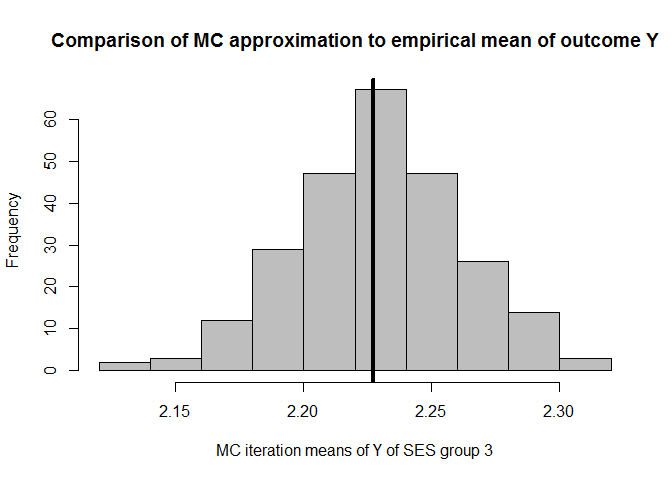
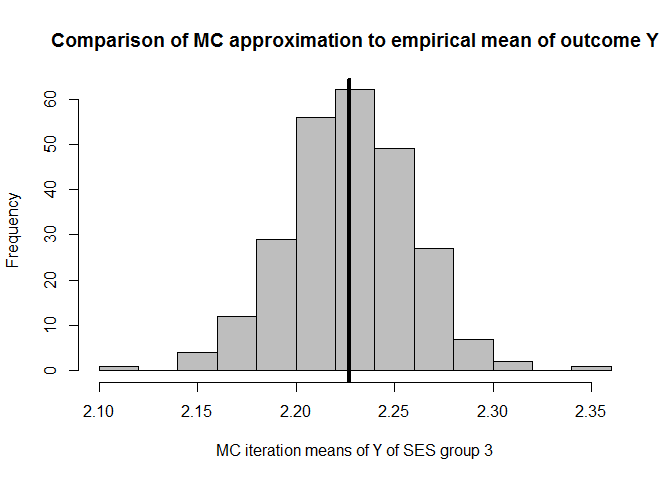
Update 1 of n based on CRAN comments received

diff --git a/README.md b/README.md
@@ -13,14 +13,13 @@ cfdecomp stands for ‘counterfactual decomposition’. This package
 provides functions to decompose differences in an outcome attributable
 to a mediating variable (or sets of mediating variables) between groups
 based on counterfactual (causal inference) theory. By using Monte Carlo
-Integration (simulations based on empirical estimates from multivariable
-models) we provide added flexibility compared to existing (analytical)
-approaches, at the cost of computational power or time. The added
-flexibility means that we can decompose difference between groups in any
-outcome or and with any mediator (any variable type and distribution).
-See the [Sudharsanan & Bijlsma Working
-Paper](https://www.demogr.mpg.de/papers/working/wp-2019-004.pdf) for
-more information.
+(MC) integration (simulations based on empirical estimates from
+multivariable models) we provide added flexibility compared to existing
+(analytical) approaches, at the cost of computational power or time. The
+added flexibility means that we can decompose difference between groups
+in any outcome or and with any mediator (any variable type and
+distribution). See Sudharsanan & Bijlsma (2019)
+<doi:10.4054/MPIDR-WP-2019-004> for more information.
 
 ## Installation
 
@@ -64,7 +63,7 @@ abline(v=mean(cfd.example.data$med.gauss[cfd.example.data$SES==1]),lwd=4)
 ``` r
 # approximation of the mean of M over the Monte Carlo iterations for SES group 1:
 mean(mean.results.1$out_nc_m[,1])
-#> [1] 8.161517
+#> [1] 8.163107
 # empirical mean of mediator M for SES group 1:
 mean(cfd.example.data$med.gauss[cfd.example.data$SES==1])
 #> [1] 8.163461
@@ -81,7 +80,7 @@ abline(v=mean(cfd.example.data$med.gauss[cfd.example.data$SES==2]),lwd=4)
 
 ``` r
 mean(mean.results.1$out_nc_m[,2]);mean(cfd.example.data$med.gauss[cfd.example.data$SES==2])
-#> [1] 7.181451
+#> [1] 7.1858
 #> [1] 7.186521
 # conclusion: also for group 2, approximation is good
 
@@ -96,7 +95,7 @@ abline(v=mean(cfd.example.data$med.gauss[cfd.example.data$SES==3]),lwd=4)
 
 ``` r
 mean(mean.results.1$out_nc_m[,3]);mean(cfd.example.data$med.gauss[cfd.example.data$SES==3])
-#> [1] 5.377285
+#> [1] 5.373602
 #> [1] 5.376548
 # conclusion: also for group 3, approximation of M is good
 
@@ -112,7 +111,7 @@ abline(v=mean(cfd.example.data$out.gauss[cfd.example.data$SES==1]),lwd=4)
 
 ``` r
 mean(mean.results.1$out_nc_y[,1]);mean(cfd.example.data$out.gauss[cfd.example.data$SES==1])
-#> [1] 4.142015
+#> [1] 4.144114
 #> [1] 4.145881
 # conclusion: on average, our distributions of means of Y centers on the empirical distribution of Y 
 
@@ -127,7 +126,7 @@ abline(v=mean(cfd.example.data$out.gauss[cfd.example.data$SES==2]),lwd=4)
 
 ``` r
 mean(mean.results.1$out_nc_y[,2]);mean(cfd.example.data$out.gauss[cfd.example.data$SES==2])
-#> [1] 3.282428
+#> [1] 3.284143
 #> [1] 3.284409
 # conclusion: also for group 2, approximation of Y is good
 
@@ -142,7 +141,7 @@ abline(v=mean(cfd.example.data$out.gauss[cfd.example.data$SES==3]),lwd=4)
 
 ``` r
 mean(mean.results.1$out_nc_y[,3]);mean(cfd.example.data$out.gauss[cfd.example.data$SES==3])
-#> [1] 2.22959
+#> [1] 2.227175
 #> [1] 2.227222
 # conclusion: also for group 3, approximation of Y is good
 
@@ -151,26 +150,26 @@ mean(mean.results.1$out_nc_y[,3]);mean(cfd.example.data$out.gauss[cfd.example.da
 # estimate the effect of the intervention and proportion mediated (decomposition)
 # the differences between SES groups 1 and 2 were first:
 mean(mean.results.1$out_nc_y[,2] - mean.results.1$out_nc_y[,1])
-#> [1] -0.8595873
+#> [1] -0.8599707
 # and after giving the gaussian mediator of SES group 2 the distribution of the one in group 1
 # the difference becomes:
 mean(mean.results.1$out_cf_y[,2] - mean.results.1$out_nc_y[,1])
-#> [1] -0.6520602
+#> [1] -0.6531454
 # so the proportion of the outcome Y that is due to differences between the two SES groups in the gaussian mediator is
 mean(1-(mean.results.1$out_cf_y[,2] - mean.results.1$out_nc_y[,1]) / (mean.results.1$out_nc_y[,2] - mean.results.1$out_nc_y[,1]))
-#> [1] 0.2418584
+#> [1] 0.2410205
 # we can also get this number, and the one from the comparison of the other SES group with group 1, straight from the object
 mean.results.1$mediation
 #>         2         3 
-#> 0.2418584 0.3067527
+#> 0.2410205 0.3068253
 # you'll notice the first number is the same as the one we calculated ourselves from the output
 # this is the proportion mediated when coming the first and the second SES group
 # the second number is the proportion mediated when comparing the first and the third SES group
 # and we can get the 1-alpha confidence intervals for each:
 mean.results.1$mediation_quantile
 #>               2         3
-#> 2.5%  0.2046796 0.2794630
-#> 97.5% 0.2771258 0.3322047
+#> 2.5%  0.2031935 0.2810823
+#> 97.5% 0.2813744 0.3349530
 
 # if a mediator is binomial distributed
 mean.results.2 <- cfd.mean(formula.y='out.gauss ~ med.pois + age + med.binom',

diff --git a/cran-comments.md b/cran-comments.md
@@ -6,7 +6,7 @@ This is a first release of the cfdecomp package, which has so far only been avai
 ## Comments received from CRAN team member on March 10, 2020 with response:
 
 * Please shorten the title to a maximum of 65 characters. Acronyms/Abbreviations can be used on their own in the title as long as they are explained in the description field.
-  * The title has now been changed to 61 character (spaces included)
+  * The title has now been changed to 61 character (spaces included in the count).
 
 * Please only capitalize names, sentence beginnings and
 abbreviations/acronyms in the description text of your DESCRIPTION file.
@@ -15,7 +15,7 @@ F.i.: --> integration
 
 * Please write references in the Description field of the DESCRIPTION file in the form authors (year) <doi:...>, authors (year) <arXiv:...>, authors (year, ISBN:...) or if those are not available: authors (year) <https:...>
 with no space after 'doi:', 'arXiv:', 'https:' and angle brackets for auto-linking. (If you want to add the title as well, quote it. --> "title")
-  * We now refer to Sudharsanan & Bijlsma (2019) with the digital object identifier added between angle brackets.
+  * We now refer to Sudharsanan & Bijlsma (2019) with the digital object identifier added between angle brackets. Corresponding changes were made in README.md.
 
 * Please always write TRUE and FALSE instead of T and F. (Also never name your variables T or F.)
   * All instances of =T were changed to =TRUE. Instances of =F were not found.
